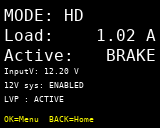
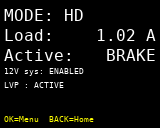
docs: regenerate screens; remove InputV from Home images

diff --git a/scripts/generate_screens.py b/scripts/generate_screens.py
@@ -76,7 +76,7 @@ def save(img: Image.Image, name: str, scale: int = 1):
 
 # ---------- Specific screens ----------
 
-def screen_home(mode: str = 'HD', load_a: float = 0.00, active: str = 'RF', src_v: float = 12.56,
+def screen_home(mode: str = 'HD', load_a: float = 0.00, active: str = 'RF',
                 sys12_enabled: bool = True, lvp_bypass: bool = False, lvp_latched: bool = False,
                 fault: str | None = None, focus_mode: bool = False):
     img = Image.new('RGB', (W, H), COLORS['BLACK'])
@@ -86,8 +86,8 @@ def screen_home(mode: str = 'HD', load_a: float = 0.00, active: str = 'RF', src_
     yMode, hMode = 6, 18
     yLoad, hLoad = yMode + hMode + 2, 18
     yActive, hActive = yLoad + hLoad + 2, 18
-    ySrcV, hSrcV = yActive + hActive + 2, 12
-    y12, h12 = ySrcV + hSrcV + 2, 12
+    # InputV removed; place 12V directly below Active
+    y12, h12 = yActive + hActive + 2, 12
     yLvp, hLvp = y12 + h12 + 2, 12
     yHint, hHint = 114, 12
 
@@ -107,9 +107,6 @@ def screen_home(mode: str = 'HD', load_a: float = 0.00, active: str = 'RF', src_
     label = active
     av_w, _ = measure_text(label, size=2)
     draw_text(img, d, max(4, W - 4 - av_w), yActive, label, size=2)
-
-    # InputV
-    draw_text(img, d, 4, ySrcV, f"InputV: {src_v:4.2f} V", size=1)
 
     # 12V sys
     draw_text(img, d, 4, y12, f"12V sys: {'ENABLED' if sys12_enabled else 'DISABLED'}", size=1)
@@ -205,13 +202,13 @@ def screen_simple_title_body(title: str, lines: list[str]):
 
 def generate_all(scale: int = 1):
     # Home (HD)
-    save(screen_home(mode='HD', load_a=0.00, active='RF', src_v=12.56, sys12_enabled=True, lvp_bypass=False, lvp_latched=False), 'home_hd_idle', scale)
-    save(screen_home(mode='HD', load_a=3.42, active='LEFT', src_v=12.44, sys12_enabled=True, lvp_bypass=False, lvp_latched=False), 'home_hd_left', scale)
-    save(screen_home(mode='HD', load_a=1.02, active='BRAKE', src_v=12.20, sys12_enabled=True, lvp_bypass=False, lvp_latched=True), 'home_hd_brake_lvp', scale)
+    save(screen_home(mode='HD', load_a=0.00, active='RF', sys12_enabled=True, lvp_bypass=False, lvp_latched=False), 'home_hd_idle', scale)
+    save(screen_home(mode='HD', load_a=3.42, active='LEFT', sys12_enabled=True, lvp_bypass=False, lvp_latched=False), 'home_hd_left', scale)
+    save(screen_home(mode='HD', load_a=1.02, active='BRAKE', sys12_enabled=True, lvp_bypass=False, lvp_latched=True), 'home_hd_brake_lvp', scale)
 
     # Home (RV) with MODE focus
-    save(screen_home(mode='RV', load_a=0.55, active='RF', src_v=12.70, sys12_enabled=True, lvp_bypass=False, lvp_latched=False, focus_mode=True), 'home_rv_idle_focus', scale)
-    save(screen_home(mode='RV', load_a=2.10, active='BRAKE', src_v=12.38, sys12_enabled=True, lvp_bypass=False, lvp_latched=False), 'home_rv_brake', scale)
+    save(screen_home(mode='RV', load_a=0.55, active='RF', sys12_enabled=True, lvp_bypass=False, lvp_latched=False, focus_mode=True), 'home_rv_idle_focus', scale)
+    save(screen_home(mode='RV', load_a=2.10, active='BRAKE', sys12_enabled=True, lvp_bypass=False, lvp_latched=False), 'home_rv_brake', scale)
 
     # Menu
     save(screen_menu(selected=0), 'menu_top', scale)
